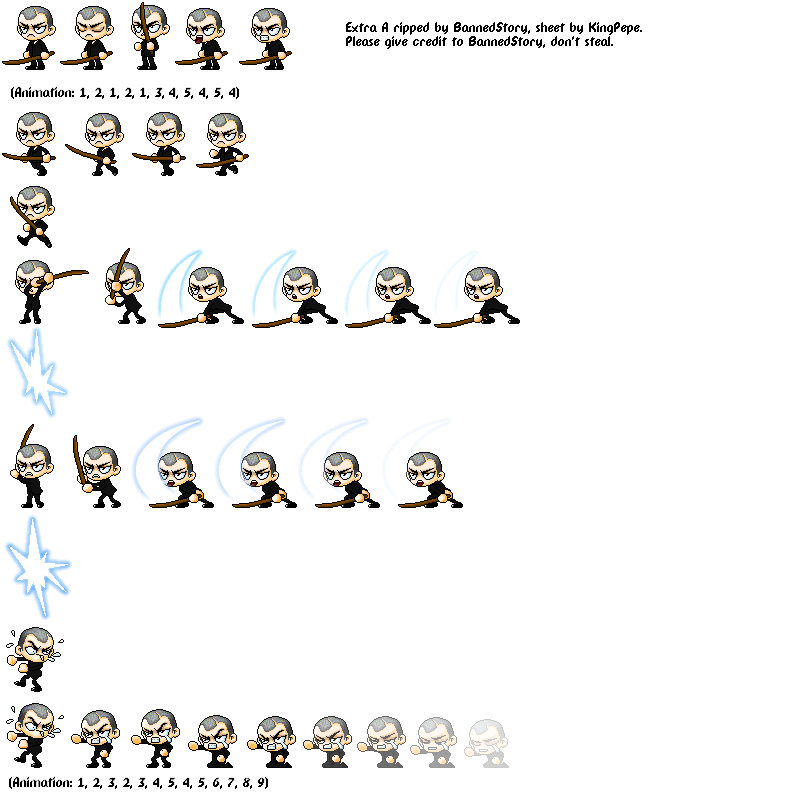
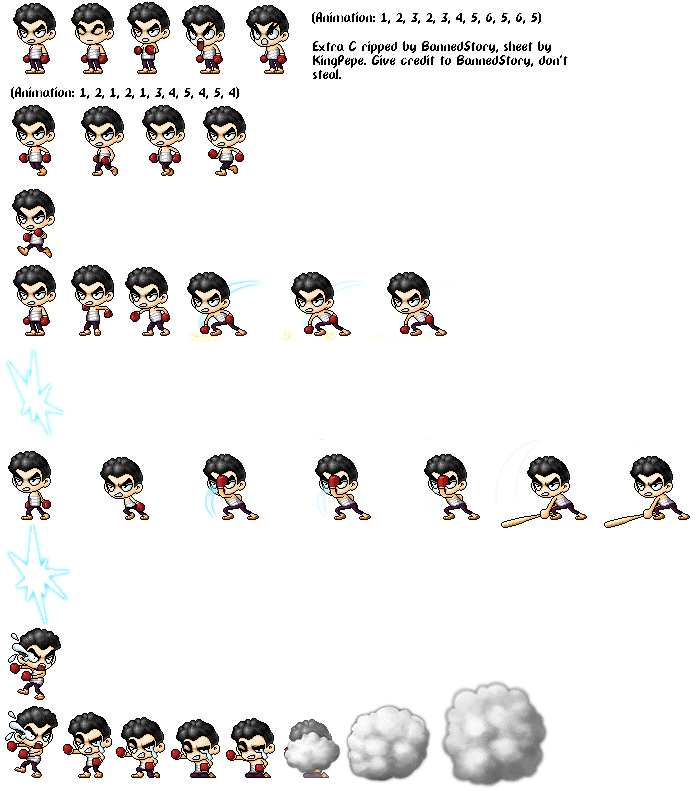
캐릭터 바꿨어염

diff --git a/boy.py b/boy.py
@@ -38,11 +38,11 @@ class Idle:
     @staticmethod
     def enter(boy, e):
         if isinstance(boy.state_machine.cur_state, Run):  # Run 상태에서 전환된 경우
-            boy.action = 8
+            boy.action = 9
             boy.dir = boy.dir1  # dir1 값으로 Idle 상태에서 방향 설정
         else:
             boy.frame = 0
-            boy.action=8
+            boy.action=9
         boy.wait_time = get_time()
 
     @staticmethod
@@ -56,13 +56,13 @@ class Idle:
 
     @staticmethod
     def draw(boy):
-        if boy.dir == 1:  # 오른쪽
+        if boy.dir == 1:
             boy.image.clip_composite_draw(
-                boy.frame * 62, boy.action * 69, 62, 69, 0, 'h', boy.x, boy.y, 62, 69
+                boy.frame * 62, boy.action * 68, 62, 72, 0, 'h', boy.x, boy.y, 62, 69
             )
-        else:  # 왼쪽
+        else:
             boy.image.clip_draw(
-                boy.frame * 62, boy.action * 69, 62, 69, boy.x, boy.y
+                boy.frame * 62, boy.action * 68, 62, 72, boy.x, boy.y
             )
 
 
@@ -97,39 +97,30 @@ class Run:
 
     @staticmethod
     def do(boy):
-        boy.frame = (boy.frame + 1) % 6
-        if not boy.is_jumping:
-            boy.x += boy.dir1 * 5
-            boy.y += boy.dir2 * 5  # y축 이동
+        boy.frame = (boy.frame + 1) % 4
+        boy.x += boy.dir1 * 5
+        boy.y += boy.dir2 * 5  # y축 이동
 
     @staticmethod
     def draw(boy):
         if boy.dir1 == 1:
             boy.image.clip_composite_draw(
-                boy.frame * 62, boy.action * 69, 62, 69, 0, 'h', boy.x, boy.y, 62, 69
+                boy.frame * 62, boy.action * 68, 62, 72, 0, 'h', boy.x, boy.y, 62, 69
             )
         else:
             boy.image.clip_draw(
-                boy.frame * 62, boy.action * 69, 62, 69, boy.x, boy.y
+                boy.frame * 62, boy.action * 68, 62, 72, boy.x, boy.y
             )
 
 class Attack:
-    # 각 프레임의 왼쪽 하단 시작 좌표와 너비 및 높이를 정의
-    sprite_frames = [
-        (0, 292, 50, 94),  # 첫 번째 프레임
-        (44, 292, 50, 94),  # 두 번째 프레임
-        (89, 292, 85, 94),  # 세 번째 프레임
-        (154, 292, 85, 94),  # 네 번째 프레임
-        (219, 292, 85, 94),  # 다섯 번째 프레임
-        (284, 292, 85, 94)  # 여섯 번째 프레임
-    ]
-
     @staticmethod
     def enter(boy, e):
         if isinstance(boy.state_machine.cur_state, Run):  # Run 상태에서 전환된 경우
             boy.dir = boy.dir1  # Run 상태의 방향을 유지
+            boy.action=5
         else:
             boy.frame = 0
+            boy.actiom=5
         boy.wait_time = get_time()
 
     @staticmethod
@@ -138,29 +129,23 @@ class Attack:
 
     @staticmethod
     def do(boy):
-        # 프레임 업데이트
-        boy.frame = (boy.frame + 1) % len(Attack.sprite_frames)
+        pass
 
     @staticmethod
     def draw(boy):
-        # 현재 프레임의 좌표와 크기 가져오기
-        frame = Attack.sprite_frames[boy.frame]
-        x, y, width, height = frame
-
-        if boy.dir1 == 1:  # 오른쪽 방향
+        if boy.dir == 1:  # 오른쪽
             boy.image.clip_composite_draw(
-                x, y, width, height, 0, 'h', boy.x, boy.y, width, height
+                boy.frame * 62, boy.action * 69, 62, 72, 0, 'h', boy.x, boy.y, 62, 69
             )
-        else:  # 왼쪽 방향
+        else:  # 왼쪽
             boy.image.clip_draw(
-                x, y, width, height, boy.x, boy.y
+                boy.frame * 62, boy.action * 69, 62, 72, boy.x, boy.y
             )
 
 class Jump:
     @staticmethod
     def enter(boy, e):
         if space_down(e):  # 스페이스키를 눌러서 점프 시작
-            boy.is_jumping = True
             boy.jump_velocity = 10
 
     @staticmethod
